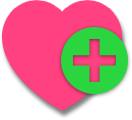
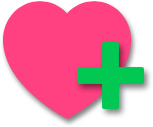
changed borders into buttons for main grid

diff --git a/Kid-Friendly-Web-Browser-Prototype/MainWindow.xaml b/Kid-Friendly-Web-Browser-Prototype/MainWindow.xaml
@@ -11,16 +11,17 @@
 
     <Viewbox StretchDirection="Both" Stretch="Uniform">
         <Grid Height="1200" Width="1920">
+            <ProgressBar  HorizontalAlignment="Left" Width="1920" Value="65" BorderBrush="Gray" Background="white" Foreground="#4255bd" Margin="0,0,0,1135"/>
 
             <Button x:Name="games" Margin="417,984,1311,36"  Background="Transparent" >
                 <Image Source="images/controller.png" Stretch ="Uniform" Height="153" Width="157"/>
             </Button>
 
-            <Button x:Name="video" HorizontalAlignment="Left" Margin="722,984,0,36" Width="180"  Background="Transparent"  BorderThickness="0"   >
+            <Button x:Name="video" HorizontalAlignment="Left" Margin="721,984,0,36" Width="180"  Background="Transparent"  BorderThickness="0"   >
                 <Image Source="images/video.png" Stretch ="Uniform" Height="156" Width="160"/>
             </Button>
 
-            <Button x:Name="button2" Margin="1017,984,721,36" RenderTransformOrigin="0.5,0.5"  Background="Transparent"  BorderThickness="0"  >
+            <Button x:Name="button2" Margin="1020,984,718,36" RenderTransformOrigin="0.5,0.5"  Background="Transparent"  BorderThickness="0"  >
                 <Image Source="images/book.png" Stretch ="Uniform" Height="158" Width="162"/>
             </Button>
 
@@ -32,7 +33,7 @@
                 <Image Source="images/rightArrow.png" Stretch ="Uniform"/>
             </Button>
 
-            <Button x:Name="buttonLeft" HorizontalAlignment="Left" Margin="85,425,0,0" VerticalAlignment="Top" Width="176" Height="240"  Background="Transparent"  BorderThickness="0"  >
+            <Button x:Name="buttonLeft" HorizontalAlignment="Left" Margin="110,425,0,0" VerticalAlignment="Top" Width="176" Height="240"  Background="Transparent"  BorderThickness="0"  >
                 <Image Source="images/leftArrow.png" Stretch ="Uniform"/>
             </Button>
 
@@ -44,23 +45,22 @@
                 <Image Source="images/settings.png" Stretch ="Uniform"/>
             </Button>
 
-            <Border BorderBrush="Black" BorderThickness="1" Height="332" Margin="1018,579,416,0" VerticalAlignment="Top">
-                <Image x:Name="image3" Source="images/thumbnails/sesame.png" Stretch ="Fill" Margin="0,-1,-1,1"/>
-            </Border>
 
-            <Border BorderBrush="Black" BorderThickness="1" HorizontalAlignment="Left" Height="332" Margin="417,157,0,0" VerticalAlignment="Top" Width="485">
-                <Image x:Name="image"  Source="images/thumbnails/dora.png" Stretch ="Fill" Margin="-1,0,0,-1"/>
-            </Border>
+            <Button x:Name="sesame"  HorizontalAlignment="Left" Margin="1017,579,0,0" VerticalAlignment="Top" Width="484" Height="332" Background="Transparent"  BorderThickness="0">
+                <Image Source="images/thumbnails/sesame.png" Stretch ="Fill" Width="484"/>
+            </Button>
 
-            <Border BorderBrush="Black" BorderThickness="1" HorizontalAlignment="Left" Height="331" Margin="417,580,0,0" VerticalAlignment="Top" Width="485">
-                <Image x:Name="image2"  Source="images/thumbnails/turtles.png" Stretch ="Fill" Margin="1,-1,-1,1"/>
-            </Border>
+            <Button x:Name="dora"  HorizontalAlignment="Left" Margin="417,157,0,0" VerticalAlignment="Top" Width="484" Height="332" Background="Transparent"  BorderThickness="0">
+                <Image Source="images/thumbnails/dora.png" Stretch ="Fill" Width="484"/>
+            </Button>
 
-            <Border BorderBrush="Black" BorderThickness="1" HorizontalAlignment="Left" Height="332" Margin="1017,157,0,0" VerticalAlignment="Top" Width="487">
-                <Image x:Name="image1"  Source="images/thumbnails/trees.png" Stretch ="Fill" Margin="-1,-1,1,1"/>
-            </Border>
+            <Button x:Name="turtles"  HorizontalAlignment="Left" Margin="417,579,0,0" VerticalAlignment="Top" Width="484" Height="332" Background="Transparent"  BorderThickness="0">
+                <Image Source="images/thumbnails/turtles.png" Stretch ="Fill" Width="484"/>
+            </Button>
 
-            <ProgressBar  HorizontalAlignment="Left" Width="1920" Value="65" BorderBrush="Gray" Background="white" Foreground="#4255bd" Margin="0,0,0,1130"/>
+            <Button x:Name="trees"  HorizontalAlignment="Left" Margin="1020,157,0,0" VerticalAlignment="Top" Width="484" Height="332" Background="Transparent"  BorderThickness="0">
+                <Image Source="images/thumbnails/trees.png" Stretch ="Fill" Width="484"/>
+            </Button>
 
         </Grid>
     </Viewbox>

diff --git a/Kid-Friendly-Web-Browser-Prototype/Browser.xaml b/Kid-Friendly-Web-Browser-Prototype/Browser.xaml
@@ -12,19 +12,19 @@
     <Viewbox StretchDirection="Both" Stretch="Uniform">
         <Grid Height="1200" Width="1920">
 
-            <ProgressBar  HorizontalAlignment="Left" Width="1920" Value="65" BorderBrush="Gray" Background="white" Foreground="#4255bd" Margin="0,0,0,1130"/>
-            <Rectangle Fill="#FFF4F4F5" Height="125" Margin="0,70,0,0" Stroke="Black" VerticalAlignment="Top"/>
+            <ProgressBar  HorizontalAlignment="Left" Width="1920" Value="65" BorderBrush="Gray" Background="white" Foreground="#4255bd" Margin="0,0,0,1135"/>
+            <Rectangle Fill="#FFF4F4F5" Height="130" Margin="0,65,0,0" Stroke="Black" VerticalAlignment="Top"/>
 
-            <Button x:Name="favourite"  HorizontalAlignment="Left" Margin="528,84,0,0" VerticalAlignment="Top" Width="106" Height="108"  Background="Transparent"  BorderThickness="0" >
+            <Button x:Name="favourite"  HorizontalAlignment="Left" Margin="525,77,0,0" VerticalAlignment="Top" Width="108" Height="108"  Background="Transparent"  BorderThickness="0" >
                 <Image Source="images/heartPlus.png" Stretch ="Uniform" Height="105" Width="102"/>
             </Button>
 
-            <Button x:Name="backButton"  HorizontalAlignment="Left" Margin="80,84,0,0" VerticalAlignment="Top" Width="106" Height="108"  Background="Transparent"  BorderThickness="0" >
+            <Button x:Name="backButton"  HorizontalAlignment="Left" Margin="80,77,0,0" VerticalAlignment="Top" Width="106" Height="108"  Background="Transparent"  BorderThickness="0" >
                 <Image Source="images/back.png" Stretch ="Uniform" Height="95" Width="102"/>
             </Button>
 
 
-            <Button x:Name="homeButton"  Click="ButtonClicked" HorizontalAlignment="Left" Margin="291,84,0,0" VerticalAlignment="Top" Width="106" Height="108"  Background="Transparent"  BorderThickness="0" >
+            <Button x:Name="homeButton"  Click="ButtonClicked" HorizontalAlignment="Left" Margin="295,77,0,0" VerticalAlignment="Top" Width="106" Height="108"  Background="Transparent"  BorderThickness="0" >
                 <Image Source="images/home.png" Stretch ="Uniform" Height="105" Width="102"/>
             </Button>
 
